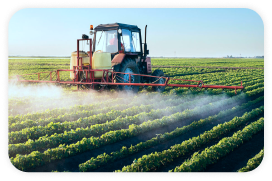
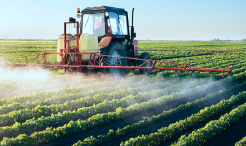
Исправление вёрстки позиционированных элементов

diff --git a/src/components/PlantProtection/PlantProtection.scss b/src/components/PlantProtection/PlantProtection.scss
@@ -28,29 +28,24 @@
 
     &__item {
         position: relative;
-        text-align: center;
+        width: 100%;
+        filter: drop-shadow(0px 0px 8px rgba(0, 0, 0, 0.15));
 
         img {
             width: 100%;
             height: 100%;
-            object-fit: cover;
-            position: absolute;
-            left: 0;
-            top: 0;
-            filter: drop-shadow(0px 0px 8px rgba(0, 0, 0, 0.15));
+            border-radius: 20px;
         }
     }
 
     &__text {
         background: rgba(255, 255, 255, 0.8);
-        padding-top: 11px;
-        padding-bottom: 11px;
-        width: 230px;
-        border-radius: 50px;
+        padding: 11px 0;
+        width: 100%;
+        border-radius: 20px;
+        text-align: center;
         position: absolute;
-        bottom: -20px;
-        left: 50%;
-        transform: translate(-50%, -50%);
+        bottom: 0;
         font-weight: 600;
         font-size: 22px;
         line-height: 27px;
@@ -59,10 +54,7 @@
         @media (min-width: 320px) and (max-width: 767px) {
             font-size: 16px;
             line-height: 20px;
-            padding-top: 6px;
-            padding-bottom: 6px;
-            width: 115px;
-            bottom: -13px
+            padding: 6px 0;
         }
     }
 }

diff --git a/src/components/CartProduct/CartProduct.scss b/src/components/CartProduct/CartProduct.scss
@@ -8,6 +8,13 @@
         margin-bottom: 19px;
         display: flex;
         justify-content: space-between;
+        padding: 10px;
+        border-radius: 20px;
+
+        &:hover {
+            background: #E5E5E5;
+            transition: all 0.2s;
+        }
     }
 
     &__link {
